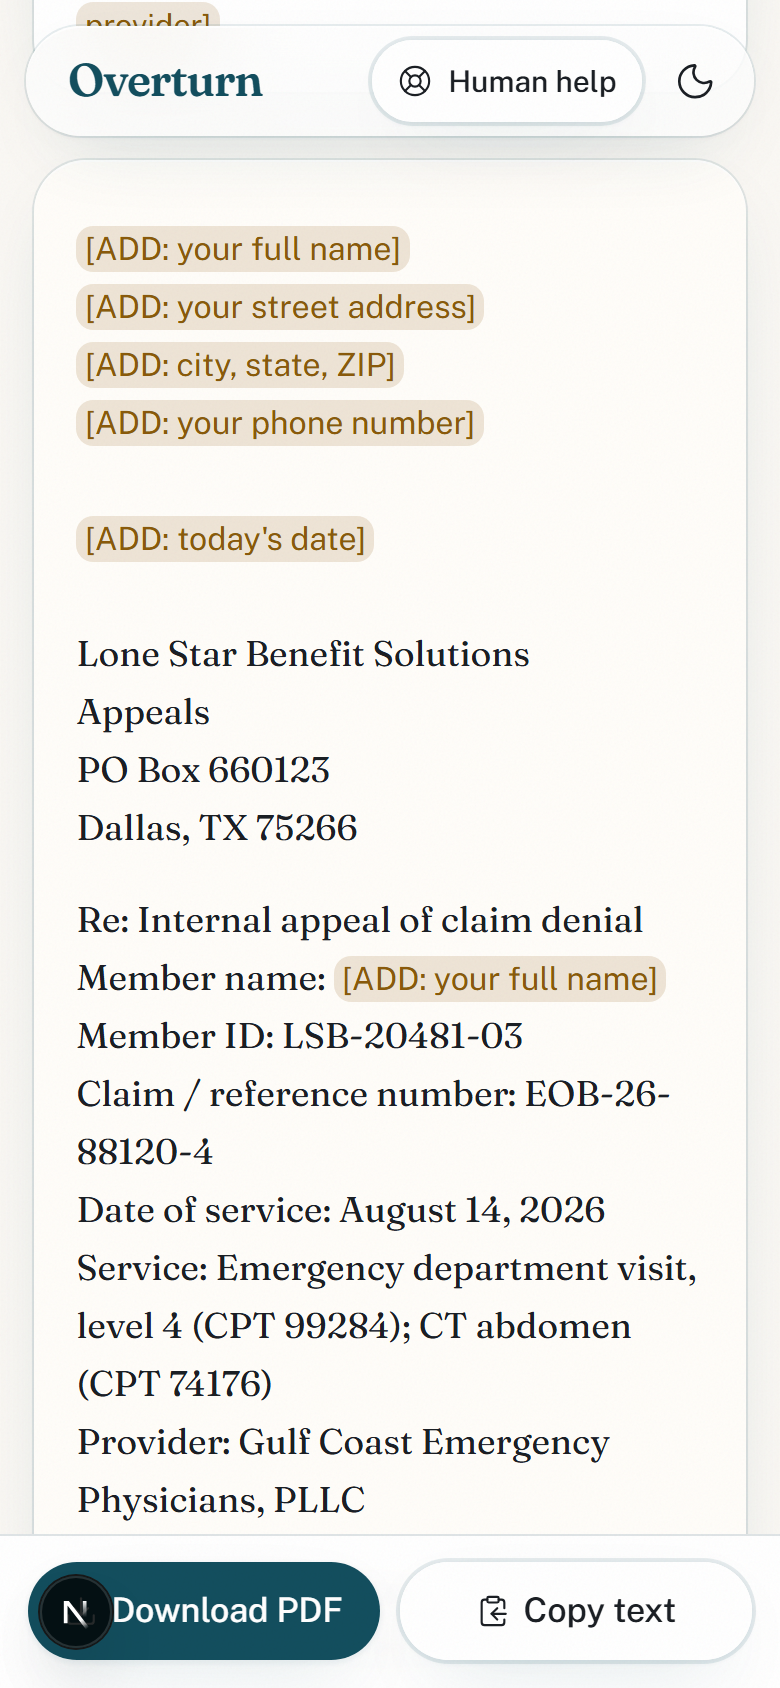
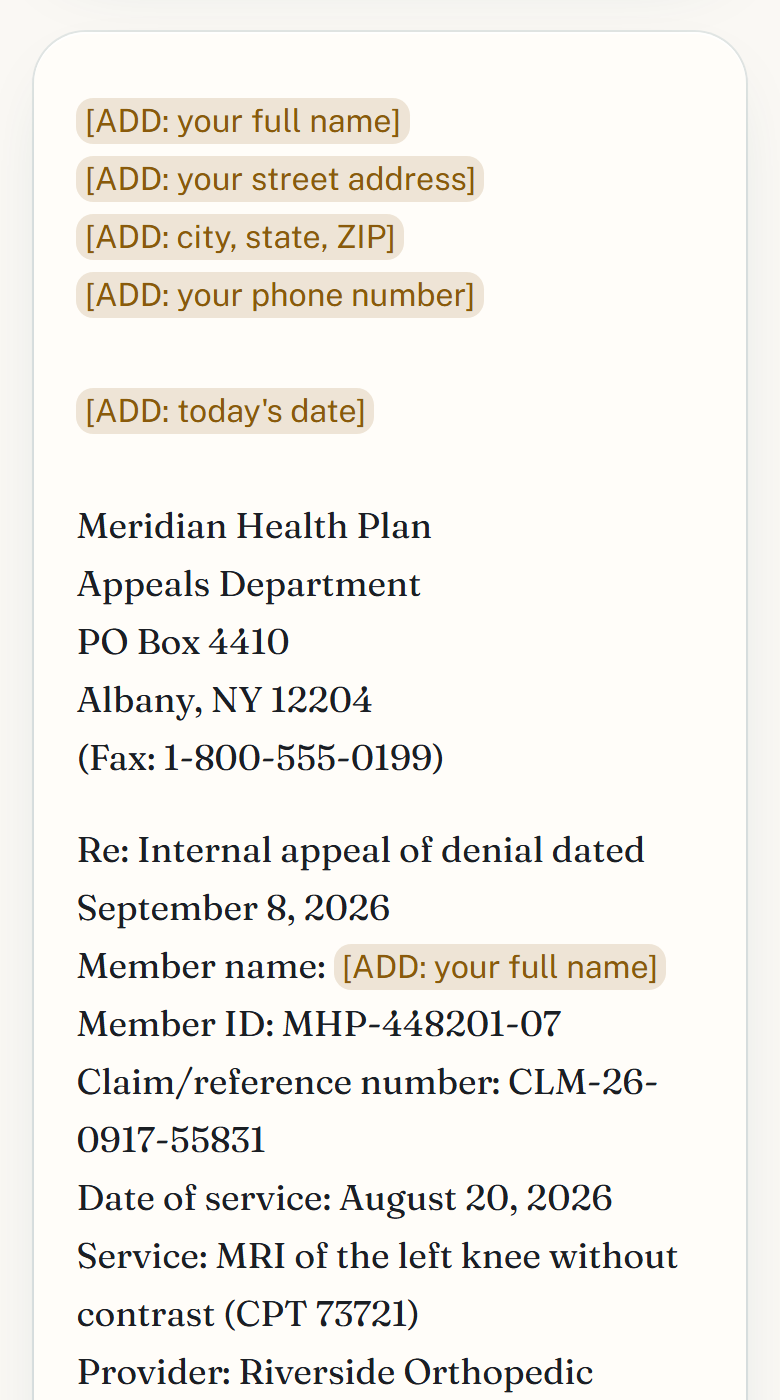
Home critique fixes: CTA opens the right tab, one story, clean screens
- /start?mode=upload|sample: "Start with my document" opens the upload tab, "Try a sample first" the samples
- "Upload once. Then three steps." matches the app's four-step progress
- Product screens now follow the hero's MRI case end to end, captured without the app chrome at each screen's own heading, with dark-mode versions (scripts/gen-screens.mjs)

diff --git a/app/page.tsx b/app/page.tsx
@@ -35,13 +35,13 @@ export default function Home() {
               that apply to you with the law behind each one, and drafts an appeal letter you edit and send.
             </p>
             <div className="mt-9 flex flex-col gap-3 sm:flex-row sm:items-center">
-              <Button className="group h-14 pl-7 pr-2 text-base" nativeButton={false} render={<Link href="/start" />}>
+              <Button className="group h-14 pl-7 pr-2 text-base" nativeButton={false} render={<Link href="/start?mode=upload" />}>
                 Start with my document
                 <span className="ml-3 flex size-10 items-center justify-center rounded-full bg-primary-foreground/15 transition-transform duration-500 ease-[var(--ease-spring)] group-hover:translate-x-0.5 group-hover:scale-105">
                   <ArrowRight aria-hidden="true" className="size-5" />
                 </span>
               </Button>
-              <Button variant="ghost" className="h-14 px-6 text-base text-primary hover:bg-primary/8" nativeButton={false} render={<Link href="/start" />}>
+              <Button variant="ghost" className="h-14 px-6 text-base text-primary hover:bg-primary/8" nativeButton={false} render={<Link href="/start?mode=sample" />}>
                 Try a sample first
               </Button>
             </div>
@@ -113,7 +113,7 @@ export default function Home() {
       <section aria-labelledby="how" className="mx-auto max-w-[1040px] py-16 sm:py-24">
         <p className="eyebrow">How it works</p>
         <h2 id="how" className="mt-4 font-serif text-4xl font-medium text-primary sm:text-5xl">
-          Three steps, <em>one</em> document
+          Upload once. Then <em>three</em> steps.
         </h2>
         <ol className="mt-12 space-y-16 sm:mt-16 sm:space-y-24">
           {[
@@ -123,7 +123,7 @@ export default function Home() {
               t: "Understand",
               d: "Every fact, with the exact words it came from. A summary at an 8th-grade level. Your first deadline as a date and a countdown.",
               img: "/screens/understand.png",
-              alt: "Understand screen showing a plain-English summary and a deadline",
+              alt: "Understand screen for the MRI denial: the short version, the amount billed, and the appeal deadline",
             },
             {
               n: "02",
@@ -131,7 +131,7 @@ export default function Home() {
               t: "Know your rights",
               d: "Five questions. Then the protections that apply, most relevant first, each with its legal citation and a link to the source.",
               img: "/screens/rights.png",
-              alt: "Rights screen showing the No Surprises Act protection with its source",
+              alt: "Rights screen for the MRI denial: the 180-day internal appeal deadline and the first rule that applies, with its source",
             },
             {
               n: "03",
@@ -139,7 +139,7 @@ export default function Home() {
               t: "Send your appeal",
               d: "A letter built only from your facts and those rights, with visible blanks for what only you know. Edit, download, send.",
               img: "/screens/letter.png",
-              alt: "Letter screen listing the blanks to fill in",
+              alt: "Letter screen for the MRI denial: the draft appeal with highlighted blanks to fill in",
             },
           ].map((s, i) => (
             <li key={s.n} data-reveal="" className="grid items-center gap-8 md:grid-cols-12 md:gap-10">
@@ -156,7 +156,8 @@ export default function Home() {
               <div className={i % 2 === 1 ? "md:order-1 md:col-span-5" : "md:col-span-5 md:col-start-8"}>
                 <div className="shell rounded-[2rem] p-2">
                   <div className="surface max-h-[420px] overflow-hidden rounded-[calc(2rem-0.5rem)] bg-muted/40">
-                    <Image src={s.img} alt={s.alt} width={780} height={1688} sizes="(min-width: 768px) 380px, 90vw" className="h-auto w-full" />
+                    <Image src={s.img} alt={s.alt} width={780} height={1400} sizes="(min-width: 768px) 380px, 90vw" className="h-auto w-full dark:hidden" />
+                    <Image src={s.img.replace(".png", "-dark.png")} alt="" aria-hidden="true" width={780} height={1400} sizes="(min-width: 768px) 380px, 90vw" className="hidden h-auto w-full dark:block" />
                   </div>
                 </div>
               </div>
@@ -248,7 +249,7 @@ export default function Home() {
               </p>
             </div>
             <div className="flex flex-col gap-3 sm:flex-row md:justify-end">
-              <Button variant="secondary" className="group h-14 pl-7 pr-2 text-base" nativeButton={false} render={<Link href="/start" />}>
+              <Button variant="secondary" className="group h-14 pl-7 pr-2 text-base" nativeButton={false} render={<Link href="/start?mode=upload" />}>
                 Start now
                 <span className="ml-3 flex size-10 items-center justify-center rounded-full bg-primary/10 transition-transform duration-500 ease-[var(--ease-spring)] group-hover:translate-x-0.5 group-hover:-translate-y-0.5">
                   <ArrowUpRight aria-hidden="true" className="size-5" />

diff --git a/app/start/page.tsx b/app/start/page.tsx
@@ -4,7 +4,9 @@ import { IntakePanel } from "@/components/intake-panel";
 
 export const metadata: Metadata = { title: "Start", description: "Upload a denial letter or Explanation of Benefits, or try a sample." };
 
-export default function Home() {
+/** `/start?mode=upload` opens the upload tab directly; anything else keeps the samples first. */
+export default async function Home({ searchParams }: { searchParams: Promise<{ mode?: string }> }) {
+  const { mode } = await searchParams;
   return (
     <div className="space-y-10">
       <section className="pt-2">
@@ -23,7 +25,7 @@ export default function Home() {
         <h2 id="start" className="mb-4 text-lg font-semibold">
           Start here
         </h2>
-        <IntakePanel />
+        <IntakePanel initialMode={mode === "upload" ? "upload" : "sample"} />
       </section>
 
     </div>

diff --git a/components/intake-panel.tsx b/components/intake-panel.tsx
@@ -37,11 +37,11 @@ const ERROR_TITLE: Record<string, string> = {
  * Step 1. Two ways in: a bundled sample (instant, cached, free) or a real upload
  * (one server call, nothing stored). Progress copy is a timer, not a fake percentage.
  */
-export function IntakePanel() {
+export function IntakePanel({ initialMode = "sample" }: { initialMode?: Mode } = {}) {
   const router = useRouter();
   const { setResult } = useSession();
   const [phase, setPhase] = useState<Phase>({ kind: "idle" });
-  const [mode, setMode] = useState<Mode>("sample");
+  const [mode, setMode] = useState<Mode>(initialMode);
   const [dragging, setDragging] = useState(false);
   const fileInput = useRef<HTMLInputElement>(null);
   const abort = useRef<AbortController | null>(null);
